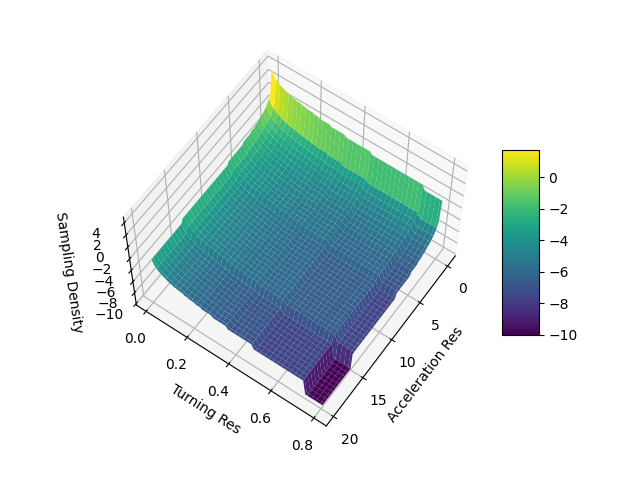
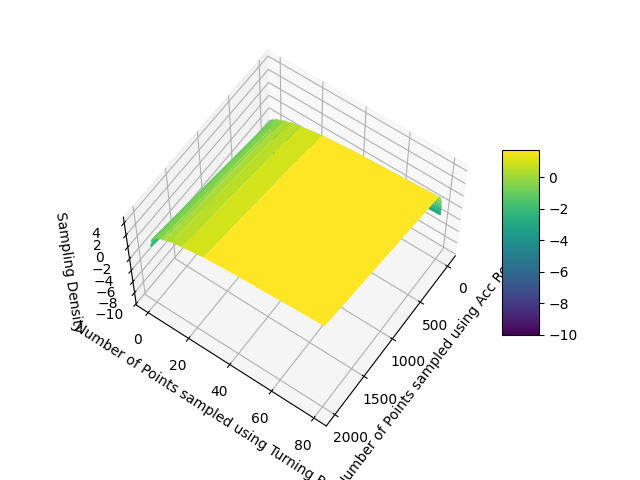
changed sampling code to display num of points instead of res

diff --git a/src/qlearning/sampling.py b/src/qlearning/sampling.py
@@ -42,8 +42,8 @@ total_samples = get_possible_states(curr1, differentials, high_res)
 total_samples_size = len(total_samples)
 #print(total_samples_size)
 
-acc_res_size = 80
-turn_res_size = 80
+acc_res_size = 60
+turn_res_size = 60
 
 densities = np.zeros((acc_res_size, turn_res_size))
 acc_res = np.zeros(acc_res_size)
@@ -75,12 +75,25 @@ for i in range(turn_res_size): #primary nested loop responsible for density comp
 # print(len(turn_res))
 # final_len = len(densities)
 
+#adding additional version of turning and acc res arrays with number of points sampled 
+#base case of pi/4 radians (for turning res) and 20 m/s^2 (for acc res) - max values
+points_sampled_acc_res = np.zeros_like(acc_res)
+for i in range(len(acc_res)):
+  temp = acc_res[i]
+  points_sampled_acc_res[i] = np.floor(20/temp)
+
+points_sampled_turn_res = np.zeros_like(turn_res)
+for i in range(len(turn_res)):
+  temp = turn_res[i]
+  points_sampled_turn_res[i] = np.floor(0.8/temp)
+
+
 
 # Assuming acc_res and turn_res are 1D arrays and densities is a 2D array
 
 # Create a meshgrid for acc_res and turn_res
 # acc_res_grid, turn_res_grid = np.meshgrid(np.log(acc_res), np.log(turn_res))
-acc_res_grid, turn_res_grid = np.meshgrid((acc_res), (turn_res))
+acc_res_grid, turn_res_grid = np.meshgrid((points_sampled_acc_res), (points_sampled_turn_res))
 
 densities = np.where(densities > 1e-10, densities, -10)
 np.log(densities, out=densities, where=densities > 0)
@@ -101,8 +114,8 @@ ax = fig.add_subplot(111, projection='3d')
 surf = ax.plot_surface(acc_res_grid, turn_res_grid, densities, cmap='viridis')
 
 # Labels and title
-ax.set_xlabel('Acceleration Res')
-ax.set_ylabel('Turning Res')
+ax.set_xlabel('Number of Points sampled using Acc Res')
+ax.set_ylabel('Number of Points sampled using Turning Res')
 ax.set_zlabel('Sampling Density')
 
 # View angle
@@ -112,7 +125,8 @@ ax.view_init(60, 35)
 fig.colorbar(surf, shrink=0.5, aspect=5)
 
 # Save the plot
-plt.savefig('sampling_density_surface_plot.png')
+plt.show(block=True)
+#plt.savefig('sampling_density_surface_plot.png')
 
 
 
@@ -124,14 +138,14 @@ fig, ax = plt.subplots()
 contour = ax.contourf(acc_res_grid, turn_res_grid, densities, cmap='viridis')
 
 # Labels
-ax.set_xlabel('Acceleration Res')
-ax.set_ylabel('Turning Res')
+ax.set_xlabel('Number of Points sampled using Acc Res')
+ax.set_ylabel('Number of Points sampled using Turning Res')
 
 # Color bar
 fig.colorbar(contour)
 
 # Save the plot
-plt.savefig('sampling_density_contour_plot.png')
+#plt.savefig('sampling_density_contour_plot.png')
 
 
 
